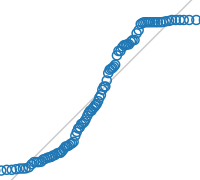
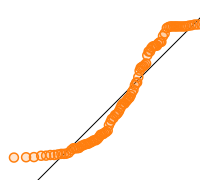
Polish error example.

diff --git a/www/ex/error-full.html b/www/ex/error-full.html
@@ -1,83 +1,89 @@
 <html>
   <head>
-    <title>2D Errors</title>
-    <link rel="stylesheet" type="text/css" href="ex.css"/>
+    <title>Error Bars</title>
+    <link rel="stylesheet" type="text/css" href="ex.css?3.2"/>
     <script type="text/javascript" src="../protovis-r3.2.js"></script>
     <script type="text/javascript" src="error.js"></script>
     <style type="text/css">
-      #fig {
-        width: 840px;
-        height: 440px;
-      }
+
+#fig {
+  width: 900px;
+  height: 340px;
+}
+
     </style>
   </head>
   <body><div id="center"><div id="fig">
     <script type="text/javascript+protovis">
 
-      var w = 800,
-          h = 400,
-          x = pv.Scale.linear(0, 20).range(0, w),
-          y = pv.Scale.linear(0, 10).range(0, h);
+var w = 860,
+    h = 300,
+    k = 3,
+    x = pv.Scale.linear(0, w / h * 10).range(0, w),
+    y = pv.Scale.linear(0, 10).range(0, h);
 
-      var vis = new pv.Panel()
-        .width(w)
-        .height(h)
-        .margin(20);
+var vis = new pv.Panel()
+  .width(w)
+  .height(h)
+  .margin(20);
 
-      /* Add the x-axis rules */
-      vis.add(pv.Rule)
-        .data(x.ticks(20))
-        .left(x)
-        .strokeStyle(function() this.index ? "#ccc" : "#000")
-       .anchor("bottom")
-        .add(pv.Label);
+/* Add the x-axis rules */
+vis.add(pv.Rule)
+    .data(x.ticks(40))
+    .left(x)
+    .strokeStyle(function(d) d ? d % 5 ? "#eee" : "#ccc" : "#000")
+  .anchor("bottom").add(pv.Label)
+    .visible(function(d) !(d & 1))
+    .text(x.tickFormat);
 
-      /* Add the y-axis rules */
-      vis.add(pv.Rule)
-        .data(y.ticks())
-        .bottom(y)
-        .strokeStyle(function() this.index ? "#ccc" : "#000")
-       .anchor("left")
-        .add(pv.Label);
+/* Add the y-axis rules */
+vis.add(pv.Rule)
+    .data(y.ticks())
+    .bottom(y)
+    .strokeStyle(function(d) d ? d % 5 ? "#eee" : "#ccc" : "#000")
+  .anchor("left").add(pv.Label)
+    .visible(function(d) !(d & 1))
+    .text(y.tickFormat);
 
-      /* Add a panel for each data point */
-      var points = vis.add(pv.Panel)
-        .data(points)
-        .left(function(d) x(d.x))
-        .bottom(function(d) y(d.y));
+/* Add a panel for each data point */
+var points = vis.add(pv.Panel)
+    .data(points)
+    .left(function(d) x(d.x))
+    .bottom(function(d) y(d.y));
 
-      /* Add x-error indicators */
-      points.add(pv.Rule)
-        .bottom(0)
-        .left(function(d) x(-d.xerr) - x(0))
-        .width(function(d) x(2*d.xerr) - x(0));
+/* Add x-error indicators */
+points.add(pv.Rule)
+    .bottom(0)
+    .left(function(d) x(-d.xerr))
+    .width(function(d) x(2 * d.xerr));
 
-      points.add(pv.Rule)
-        .data(function(d) [-1,1])
-        .left(function(s, d) x(s * d.xerr) - x(0))
-        .bottom(-5)
-        .height(10);
+points.add(pv.Rule)
+    .data([-1, 1])
+    .left(function(s, d) x(s * d.xerr))
+    .bottom(-k)
+    .height(2 * k);
 
-      /* Add y-error indicators */
-      points.add(pv.Rule)
-        .left(0)
-        .bottom(function(d) y(-d.yerr) - y(0))
-        .height(function(d) y(2*d.yerr) - y(0));
+/* Add y-error indicators */
+points.add(pv.Rule)
+    .left(0)
+    .bottom(function(d) y(-d.yerr))
+    .height(function(d) y(2 * d.yerr));
 
-      points.add(pv.Rule)
-        .data(function(d) [-1,1])
-        .bottom(function(s, d) y(s * d.yerr) - y(0))
-        .left(-5)
-        .width(10);
+points.add(pv.Rule)
+    .data(function(d) [-1, 1])
+    .bottom(function(s, d) y(s * d.yerr) - y(0))
+    .left(-k)
+    .width(2 * k);
 
-      /* Add the data dots */
-      points.add(pv.Dot)
-        .left(0)
-        .bottom(0)
-        .strokeStyle(null)
-        .fillStyle("steelblue");
+/* Add the data dots */
+points.add(pv.Dot)
+    .left(0)
+    .bottom(0)
+    .radius(k)
+    .strokeStyle(null)
+    .fillStyle("black");
 
-      vis.render();
+vis.render();
 
     </script>
   </div></div></body>

diff --git a/www/ex/error.js b/www/ex/error.js
@@ -1,8 +1,8 @@
-var points = pv.range(18).map(function(p) {
+var points = pv.range(28).map(function(p) {
   return {
-    x:p+Math.random()+.5,
-    y:p/2+Math.random()+.5,
-    xerr:Math.random()*.9+.1,
-    yerr:Math.random()*.8+.1
+    x: p + Math.random() + .5,
+    y: 8 * Math.sqrt(p / 30) + Math.random() + .5,
+    xerr: Math.random() * .5 + .1,
+    yerr: Math.random() + .1
   };
 });
